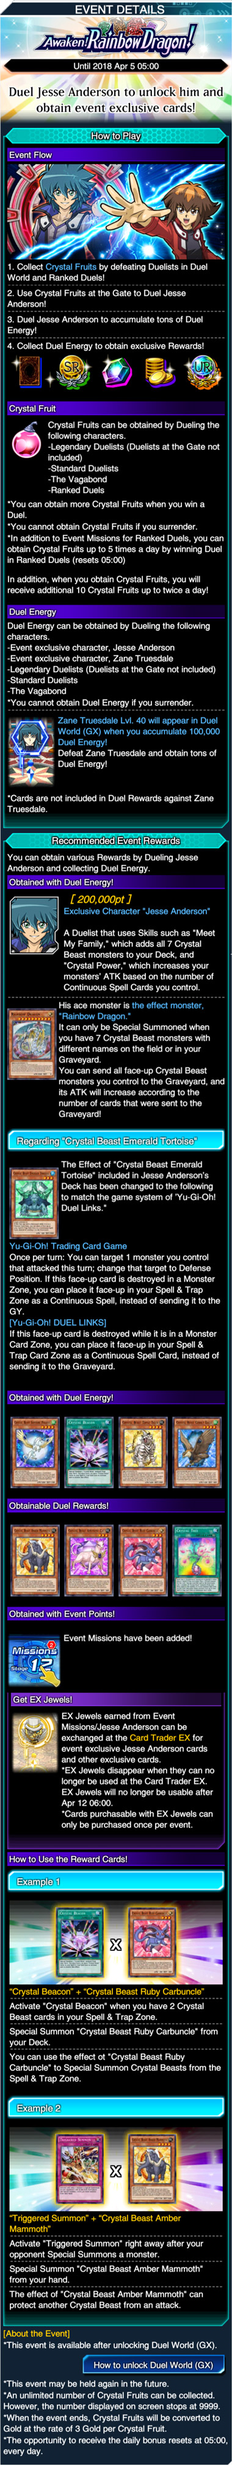
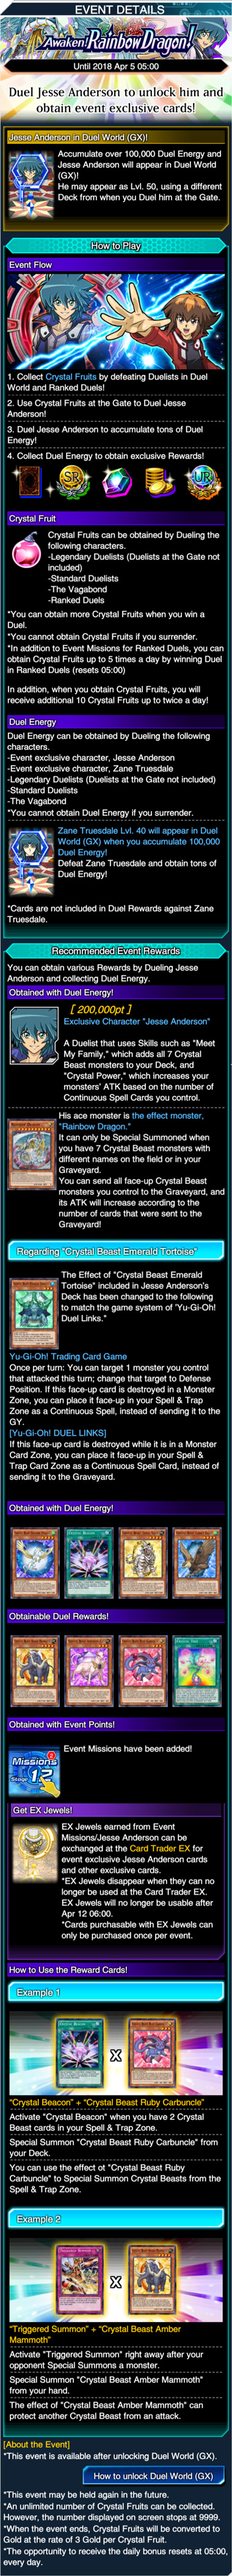
Jesse Lvl. 50 update, updated In-Game Updates article

diff --git a/_posts/content/events/2018/03/2018-03-28-awaken-rainbow-dragon.md b/_posts/content/events/2018/03/2018-03-28-awaken-rainbow-dragon.md
@@ -16,21 +16,29 @@ permalink: /events/march-2018/awaken-rainbow-dragon/
 
 ![Banner](/img/content/events/2018/03/awaken-rainbow-dragon/banner.png)
 
-**Last updated April 2nd - Added more farm decks**
+**Last updated April 2nd - Jesse Lvl. 50**
 
+- [Update](#update)
 - [Event Information](#event-information)
-- [Drop Rewards ](#drop-rewards)
+- [Drop Rewards](#drop-rewards)
 - [EX Jewel Rewards](#ex-jewel-rewards)
 - [Event Missions](#event-missions)
-- [Farm Deck](#farm-decks)
+- [Farm Decks](#farm-decks)
     - [Level 40 Cloudian Farm - created by Jadehex](#jadehex)
     - [Level 40 Unhappy Girl Farm - created by Hi_Im_Flabber](#flabber)
     - [Level 40 Cerberus Farm - created by Jadehex](#jadehex2)
     - [Level 40 Labyrinth Builder Farm - created by InfiniteFlash](#infiniteflash)
 - [Jesse Anderson Lvl: 40 Decklist](#40)
+- [Jesse Anderson Lvl: 50 Decklist](#50)
 - **[Duel Awards](#awards)**
 
 [slider](/img/content/events/2018/03/awaken-rainbow-dragon/slider.jpg)
+
+### Update
+
+Jesse Lvl. 50 will now spawn in Duel World (GX) with a [stronger deck](#50) in tow!
+  
+He will use {Rainbow Path} to negate your attack so substitute a non-essential card in one of the many farm decks below for {Anti-Magic Arrows}, {Hey, Trunade!}, {Fire Formation - Gyokkou}, {Nobleman of Extermination} etc. Alternatively, {Trap Jammer} or {Seven Tools of the Bandit} would also suffice however it's more risky since they could be the last card in your deck. 
 
 ### Event Information 
 - Jesse Anderson has arrived - get your game on! Collect the fabled Crystal Beast cards and unlock him as a Duelist!
@@ -181,10 +189,16 @@ You should only have one {The Unhappy Girl} and Blue-Eyes Ultimate Dragon in you
 ---
 
 <a name="40"></a>
-
 ### Jesse Anderson Lvl: 40 Decklist
 
 [deck](Crystal Beast Sapphire Pegasus; Crystal Beast Sapphire Pegasus; Crystal Beast Sapphire Pegasus; Crystal Beast Amber Mammoth; Crystal Beast Emerald Tortoise; Crystal Beast Emerald Tortoise; Crystal Beast Topaz Tiger; Crystal Beast Topaz Tiger; Crystal Beast Topaz Tiger; Dweller in the Depths; Dweller in the Depths; Crystal Beast Amethyst Cat; Crystal Beast Cobalt Eagle; Crystal Beast Ruby Carbuncle; Crystal Promise; Crystal Release; Crystal Release; Rare Value; Rare Value; Rare Value)
+
+---
+
+<a name="50"></a>
+### Jesse Anderson Lvl: 50 Decklist
+
+[deck](Rainbow Dragon; Crystal Beast Sapphire Pegasus; Crystal Beast Sapphire Pegasus; Crystal Beast Sapphire Pegasus; Crystal Beast Topaz Tiger; Crystal Beast Topaz Tiger; Crystal Beast Amethyst Cat; Crystal Beast Ruby Carbuncle; Crystal Beast Amber Mammoth; Crystal Beast Emerald Tortoise; Crystal Beast Cobalt Eagle; Crystal Bond; Crystal Bond; Crystal Bond; Crystal Release; Crystal Release; Rare Value; Rare Value; Rare Value; Rainbow Path)
 
 ---
 

diff --git a/_posts/content/news/2018/04/2018-04-01-in-game-updates-april.md b/_posts/content/news/2018/04/2018-04-01-in-game-updates-april.md
@@ -1,10 +1,10 @@
 ---
 layout: blog
-title: In-Game Updates - April 1st
+title: In-Game Updates - April 2nd
 author: Yami Hammy
 image: /img/content/news/2018/04/in-game-updates/thumbnail.jpg
 category: news
-date: 2018-04-01
+date: 2018-04-02
 pinned: false
 comments: true
 description: A breakdown of newly released information and updates for you to look forward too!  
@@ -14,7 +14,25 @@ permalink: /news/april-2018/in-game-updates/
 
 {% include heading.html title=page.title author=page.author %}
 
-## 1st April Update
+## April 2nd Update
+
+<br>
+
+### x1.5 EXP Campaign
+
+You'll be able to level up your characters 50% quicker for the duration of the campaign, use Duel Orbs to make Standard Duelists respawn instantly!   
+
+![](/img/content/news/2018/04/in-game-updates/exp-campaign.jpg)
+
+### Jesse Anderson Lvl. 50
+
+Jesse Lvl. 50 will now spawn in Duel World (GX) with a stronger deck in tow. Check out our [Awaken! Rainbow Dragon!](/events/march-2018/awaken-rainbow-dragon/) event article for the best ways farm him and get your playset of Crystal Beast cards!
+
+![](/img/content/news/2018/04/in-game-updates/jesse-lvl-50.jpg)
+
+---
+
+## April 1st Update
 
 <br>
 
